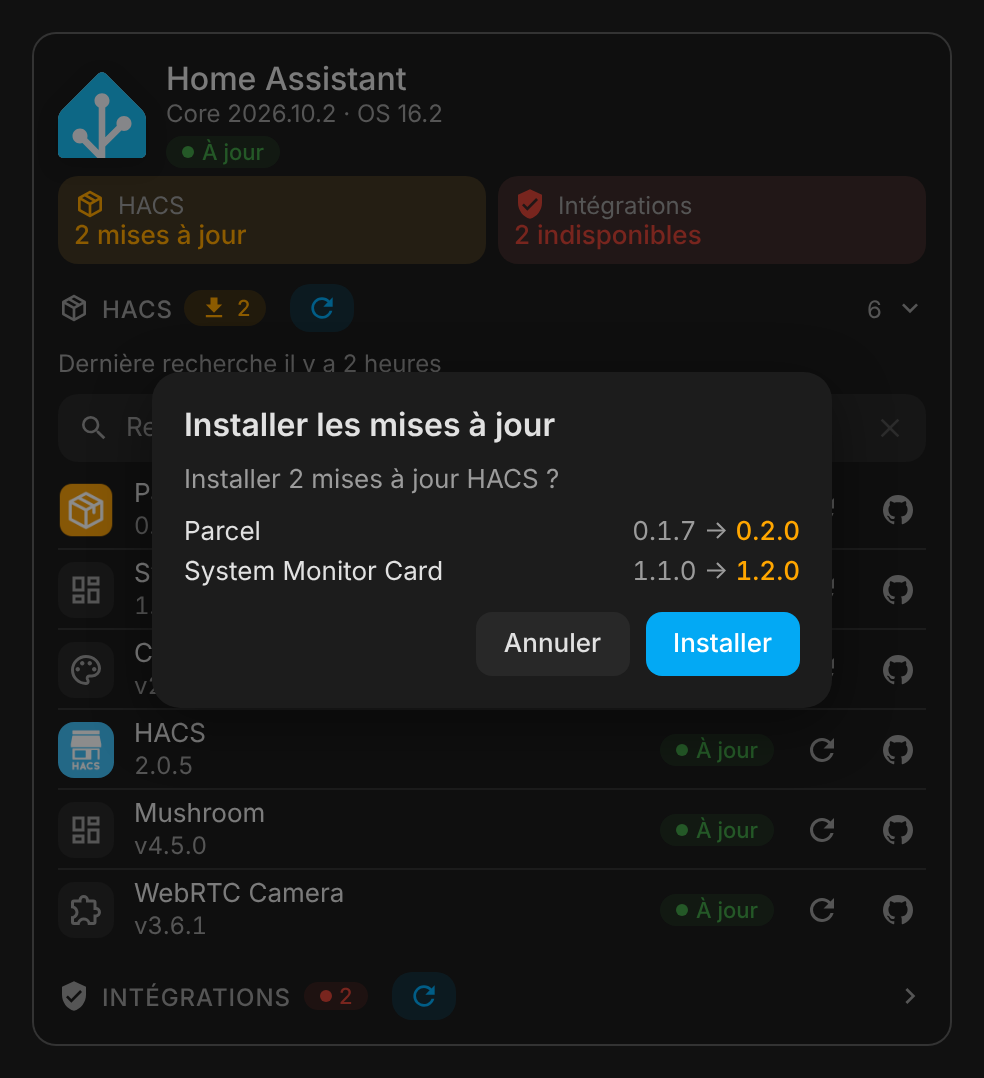
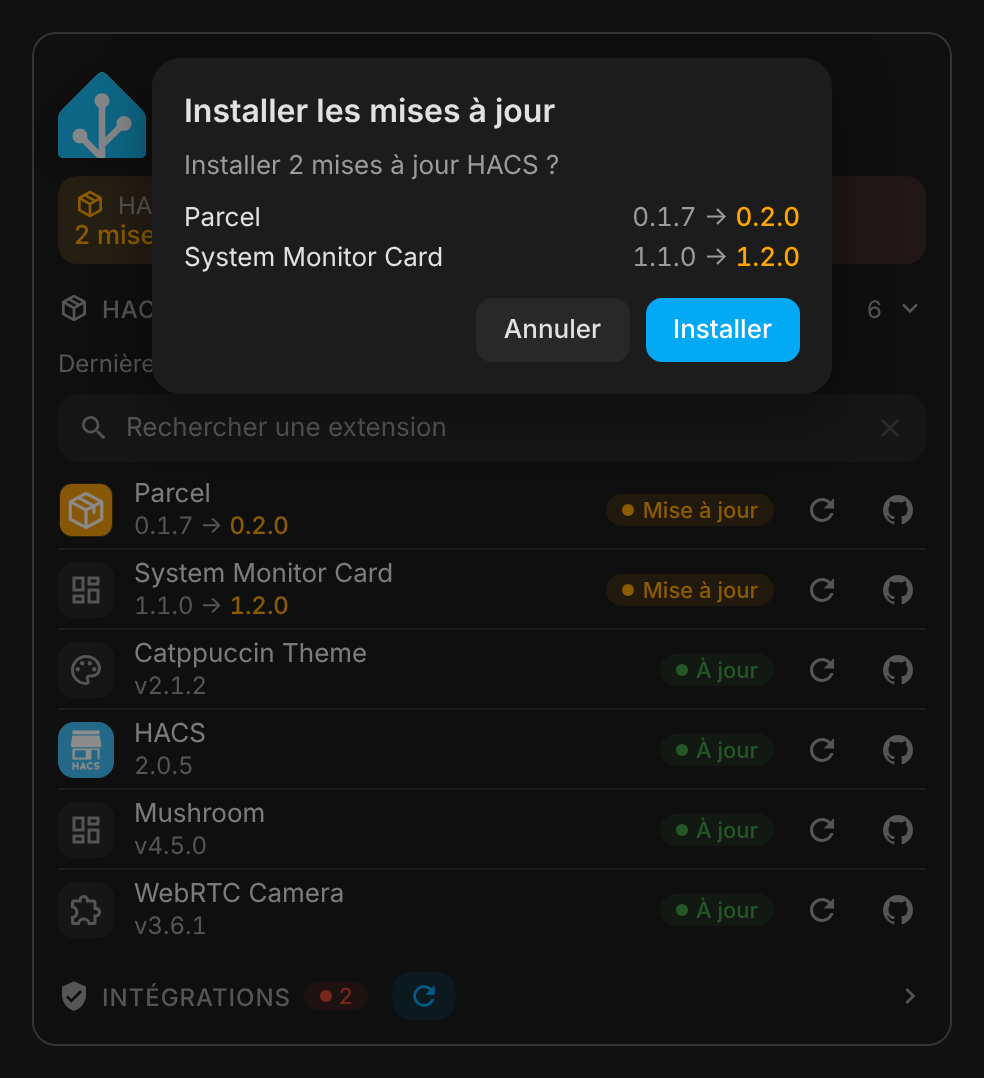
Show the install popup at the top of the card (1.13.3)
The confirmation popup was centered vertically on the card, out of view
when the HACS list was long. It now sits at the top of the card.

Claude-Session: https://claude.ai/code/session_01LinyzDd2d6MHE3thjG2XL2

diff --git a/src/system-monitor-card.js b/src/system-monitor-card.js
@@ -550,10 +550,11 @@ const fireMoreInfo = (node, entityId) => {
 // Shared styles
 // ---------------------------------------------------------------------------
 
-// In-card confirmation popup, as in ha-iptv-card: a backdrop over the card with a small dialog.
+// In-card confirmation popup, as in ha-iptv-card: a backdrop over the card with a small dialog,
+// at the top of the card so it stays in view when the card is long.
 const DIALOG_STYLE = `
-  .backdrop { position: absolute; inset: 0; background: rgba(0,0,0,.45); display: flex; align-items: center; justify-content: center;
-              z-index: 9; border-radius: inherit; }
+  .backdrop { position: absolute; inset: 0; background: rgba(0,0,0,.45); display: flex; align-items: flex-start; justify-content: center;
+              padding-top: 12px; box-sizing: border-box; z-index: 9; border-radius: inherit; }
   .modal { background: var(--card-background-color, #1c1c1c); color: var(--primary-text-color); width: min(92%, 340px); max-height: calc(100% - 24px);
            box-sizing: border-box; border-radius: 14px; padding: 16px; box-shadow: 0 8px 30px rgba(0,0,0,.4); display: flex; flex-direction: column; gap: 10px; }
   .modal h3 { margin: 0; font-size: 16px; font-weight: 600; }

diff --git a/README.md b/README.md
@@ -197,7 +197,7 @@ Logos are loaded dynamically, best source first:
 
 **Check for updates** (the refresh button next to the HACS section title, visible even while the list is folded) presses the button of the [HACS Refresh](https://github.com/juju35/ha-hacs-refresh) integration: Home Assistant asks HACS to fetch every downloaded repository again from GitHub, in the background, and the card shows the progress and the time of the last check from HACS Refresh's sensors. The check goes on if you leave the page, and HACS Refresh can also check at an interval set in its options. Without HACS Refresh, the button is hidden and the unfolded list shows a link to install it.
 
-**Install all updates**: when updates are pending, their number next to the HACS section title is a button (for admins). A click opens a confirmation popup over the card, listing each extension with its current and new version (**Cancel**, a click outside the popup or Escape closes it), then **Install** installs every pending update one after the other through `update.install`, with the progress in the button. Integrations then need a Home Assistant restart (Home Assistant raises a repair for it), dashboard cards a browser reload.
+**Install all updates**: when updates are pending, their number next to the HACS section title is a button (for admins). A click opens a confirmation popup at the top of the card, listing each extension with its current and new version (**Cancel**, a click outside the popup or Escape closes it), then **Install** installs every pending update one after the other through `update.install`, with the progress in the button. Integrations then need a Home Assistant restart (Home Assistant raises a repair for it), dashboard cards a browser reload.
 
 ### Unavailable integrations
 

diff --git a/CHANGELOG.md b/CHANGELOG.md
@@ -1,5 +1,10 @@
 # Changelog
 
+## 1.13.3
+
+### Fixes
+- The install confirmation popup sits at the top of the card instead of its vertical middle, so it stays in view without scrolling when the HACS list is long.
+
 ## 1.13.2
 
 ### Maintenance
